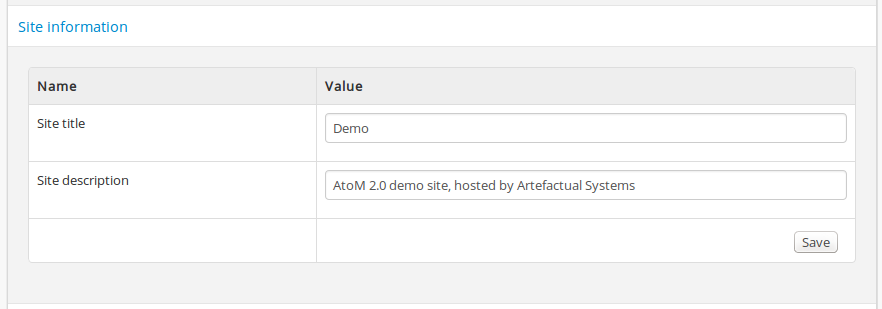
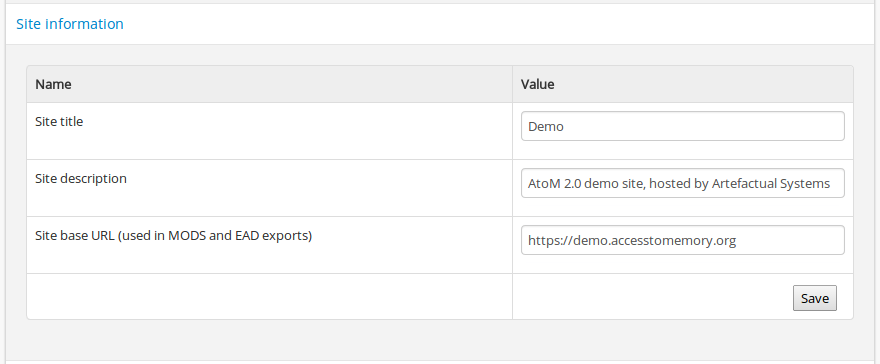
Documented site base URL.

diff --git a/user-manual/administer/themes.rst b/user-manual/administer/themes.rst
@@ -4,8 +4,8 @@
 Themes and theming
 ==================
 
-This section describes how to change the theme, :term:`site title` and
-:term:`site description` in your AtoM application.
+This section describes how to change the theme, :term:`site title`,
+:term:`site description`, and :term:`site base URL` in your AtoM application.
 
 .. NOTE::
 
@@ -71,16 +71,17 @@ To add or remove the :term:`site title`, :term:`site description`, and/or
    :alt: Settings for default page elements.
 
 
-Change site title and site description
-======================================
+Change site title, description, and base URL
+============================================
 
-To change the :term:`site title` and/or :term:`site description`:
+To change the :term:`site title`, :term:`site description`, and/or
+:term:`site base URL`:
 
 1. Click on the |gears| :ref:`Admin <main-menu-admin>` menu in the :term:`main
    menu` located in the :term:`header bar` and select Settings.
 
-2. Click on or scroll down to Site information. Update the text in Site title
-   and Site description as desired, and click Save.
+2. Click on or scroll down to Site information. Update the text in Site title,
+   Site description, and Site base URL as desired, and click Save.
 
 .. image:: images/change-site-info.*
    :align: center

diff --git a/user-manual/glossary/glossary.rst b/user-manual/glossary/glossary.rst
@@ -1039,6 +1039,12 @@ Glossary
     elements <default-page-elements>`. See also :ref:`atom-header-bar` and
     :ref:`recurring-page-elements`.
 
+  Site base URL
+    The site base URL is the absolute URL to your site's homepage. This
+    URL will be included in MODS and EAD XML exports to formulate absolute
+    links to AtoM resources. If your domain is "townarchives.org", for
+    example, your base URL might be "http://townarchives.org".
+
   Site logo
     The site logo is the graphic that appears at the top of all pages in
     the left-hand corner of the :term:`header bar` in AtoM. Clicking on

diff --git a/admin-manual/installation/linux.rst b/admin-manual/installation/linux.rst
@@ -504,6 +504,7 @@ The rest of the fields can be filled as you need:
 
 * Site title
 * Site description
+* Site base URL
 * Username
 * E-mail address
 * Password
